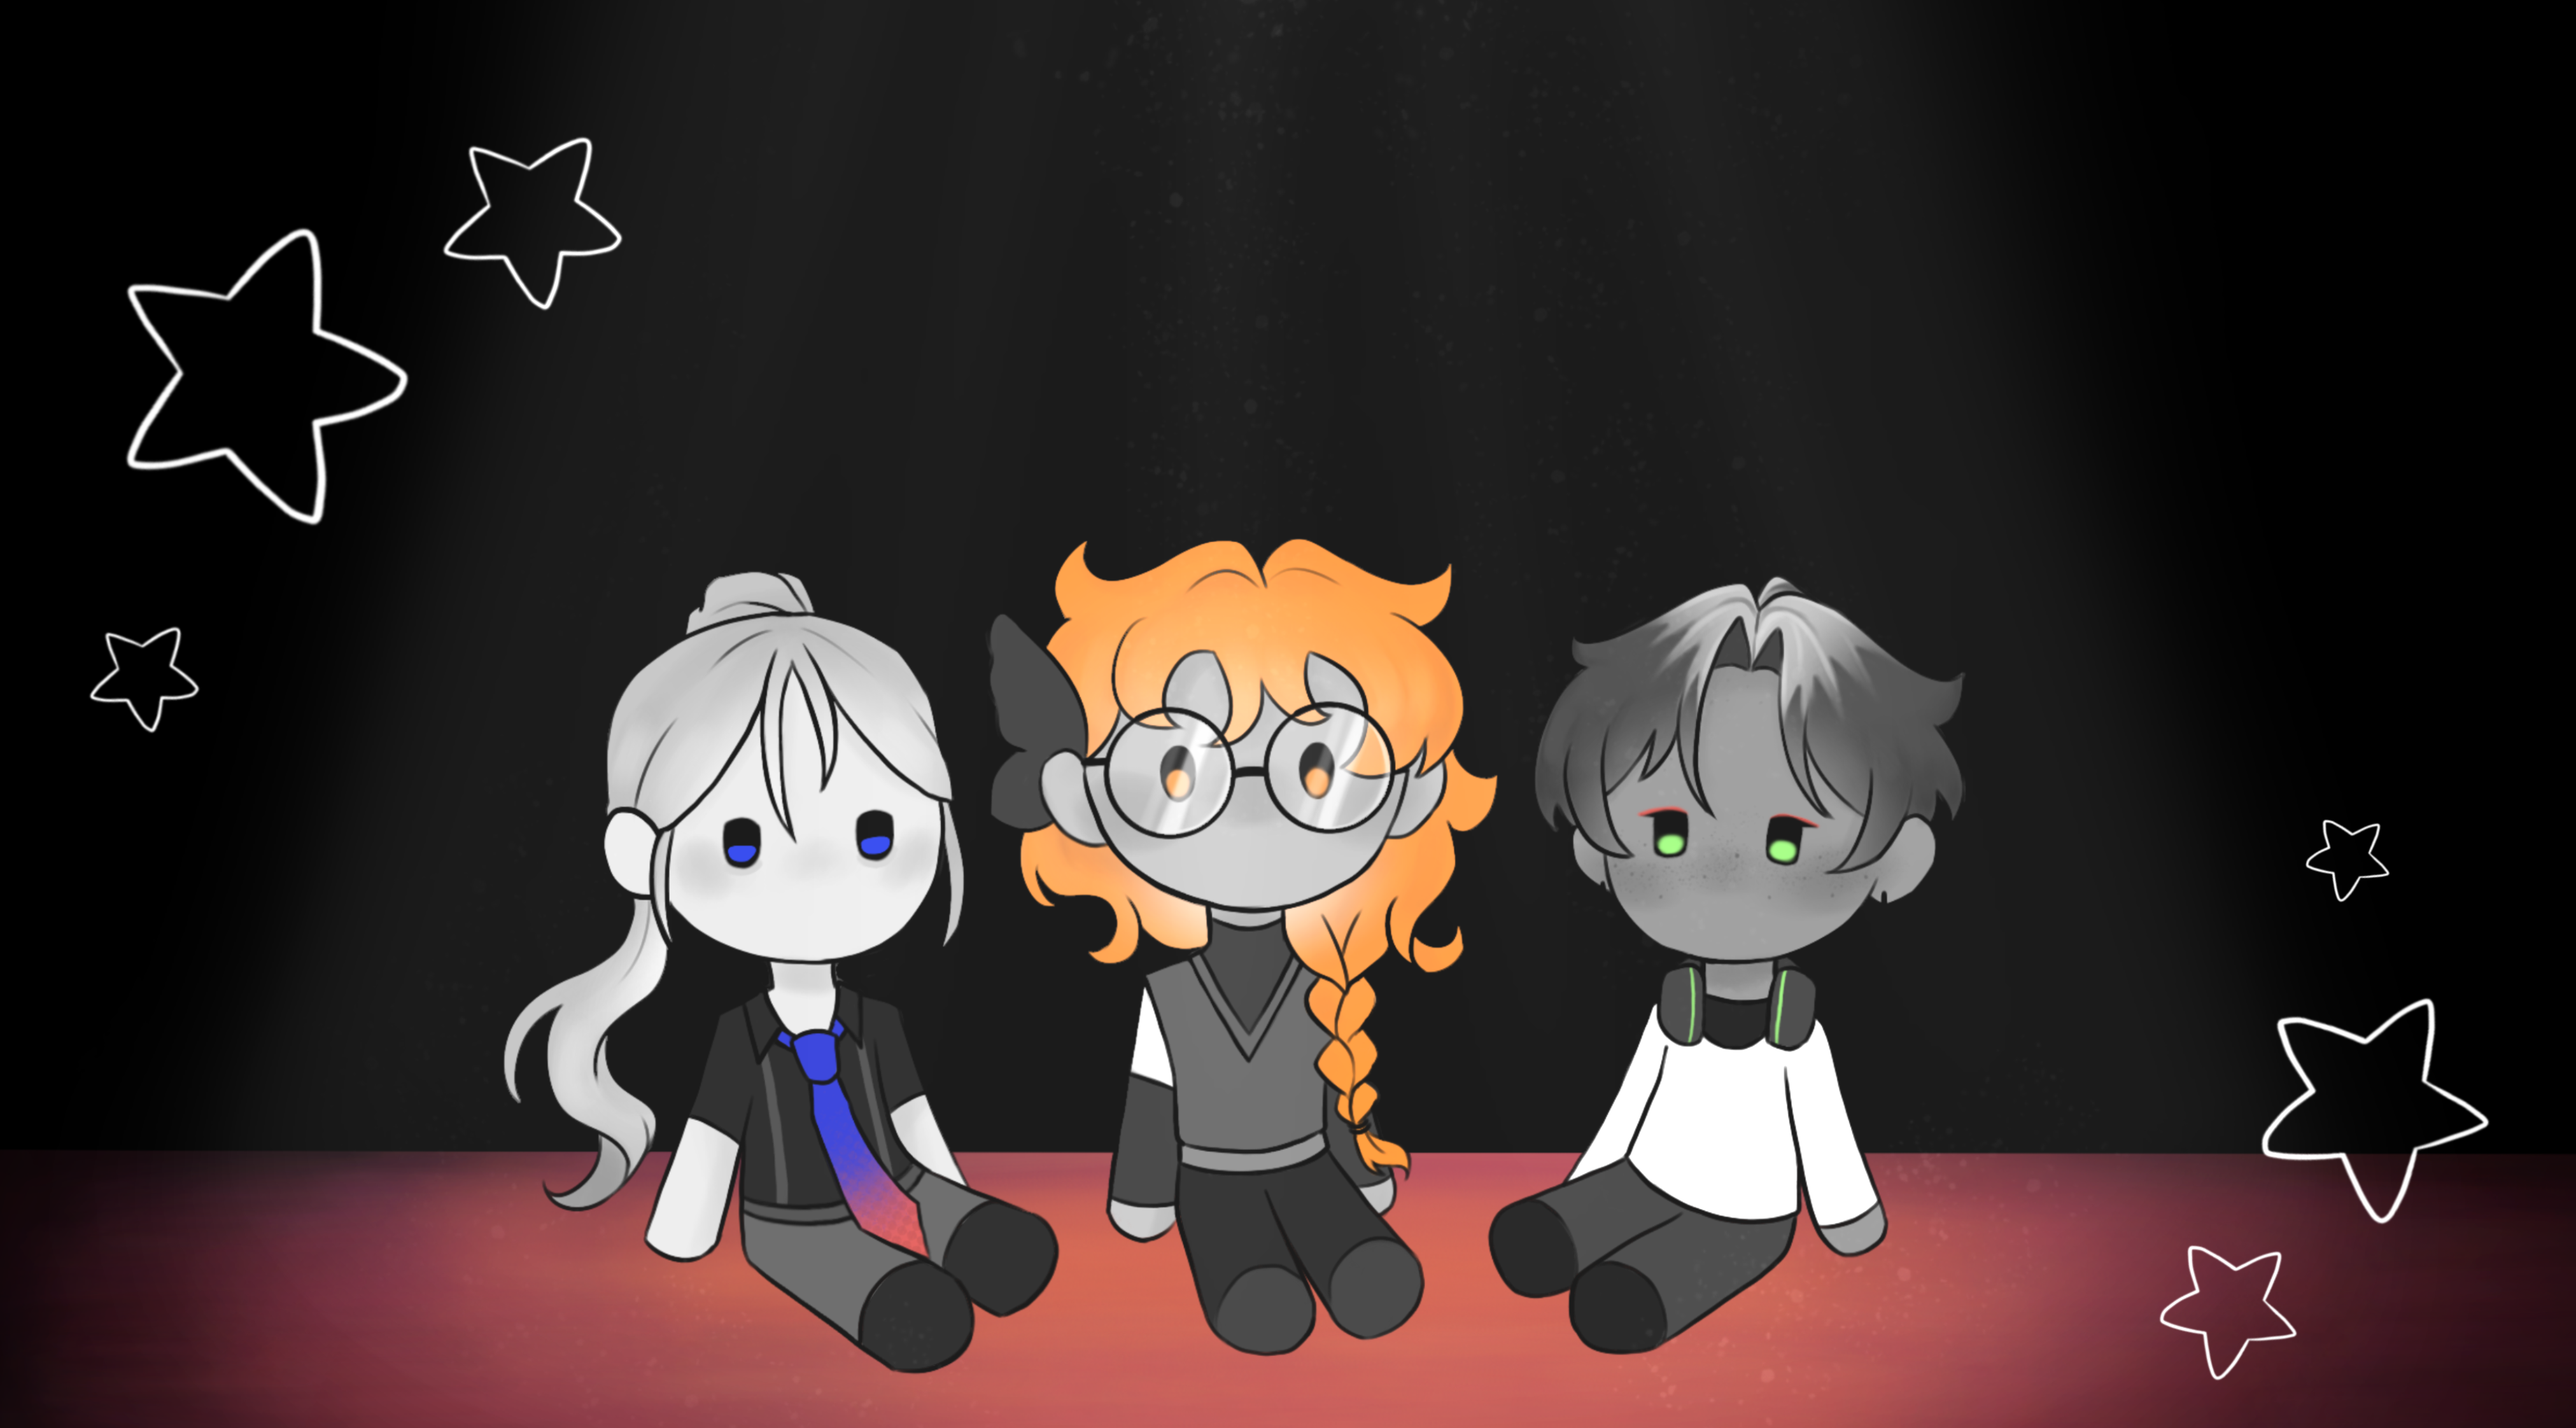
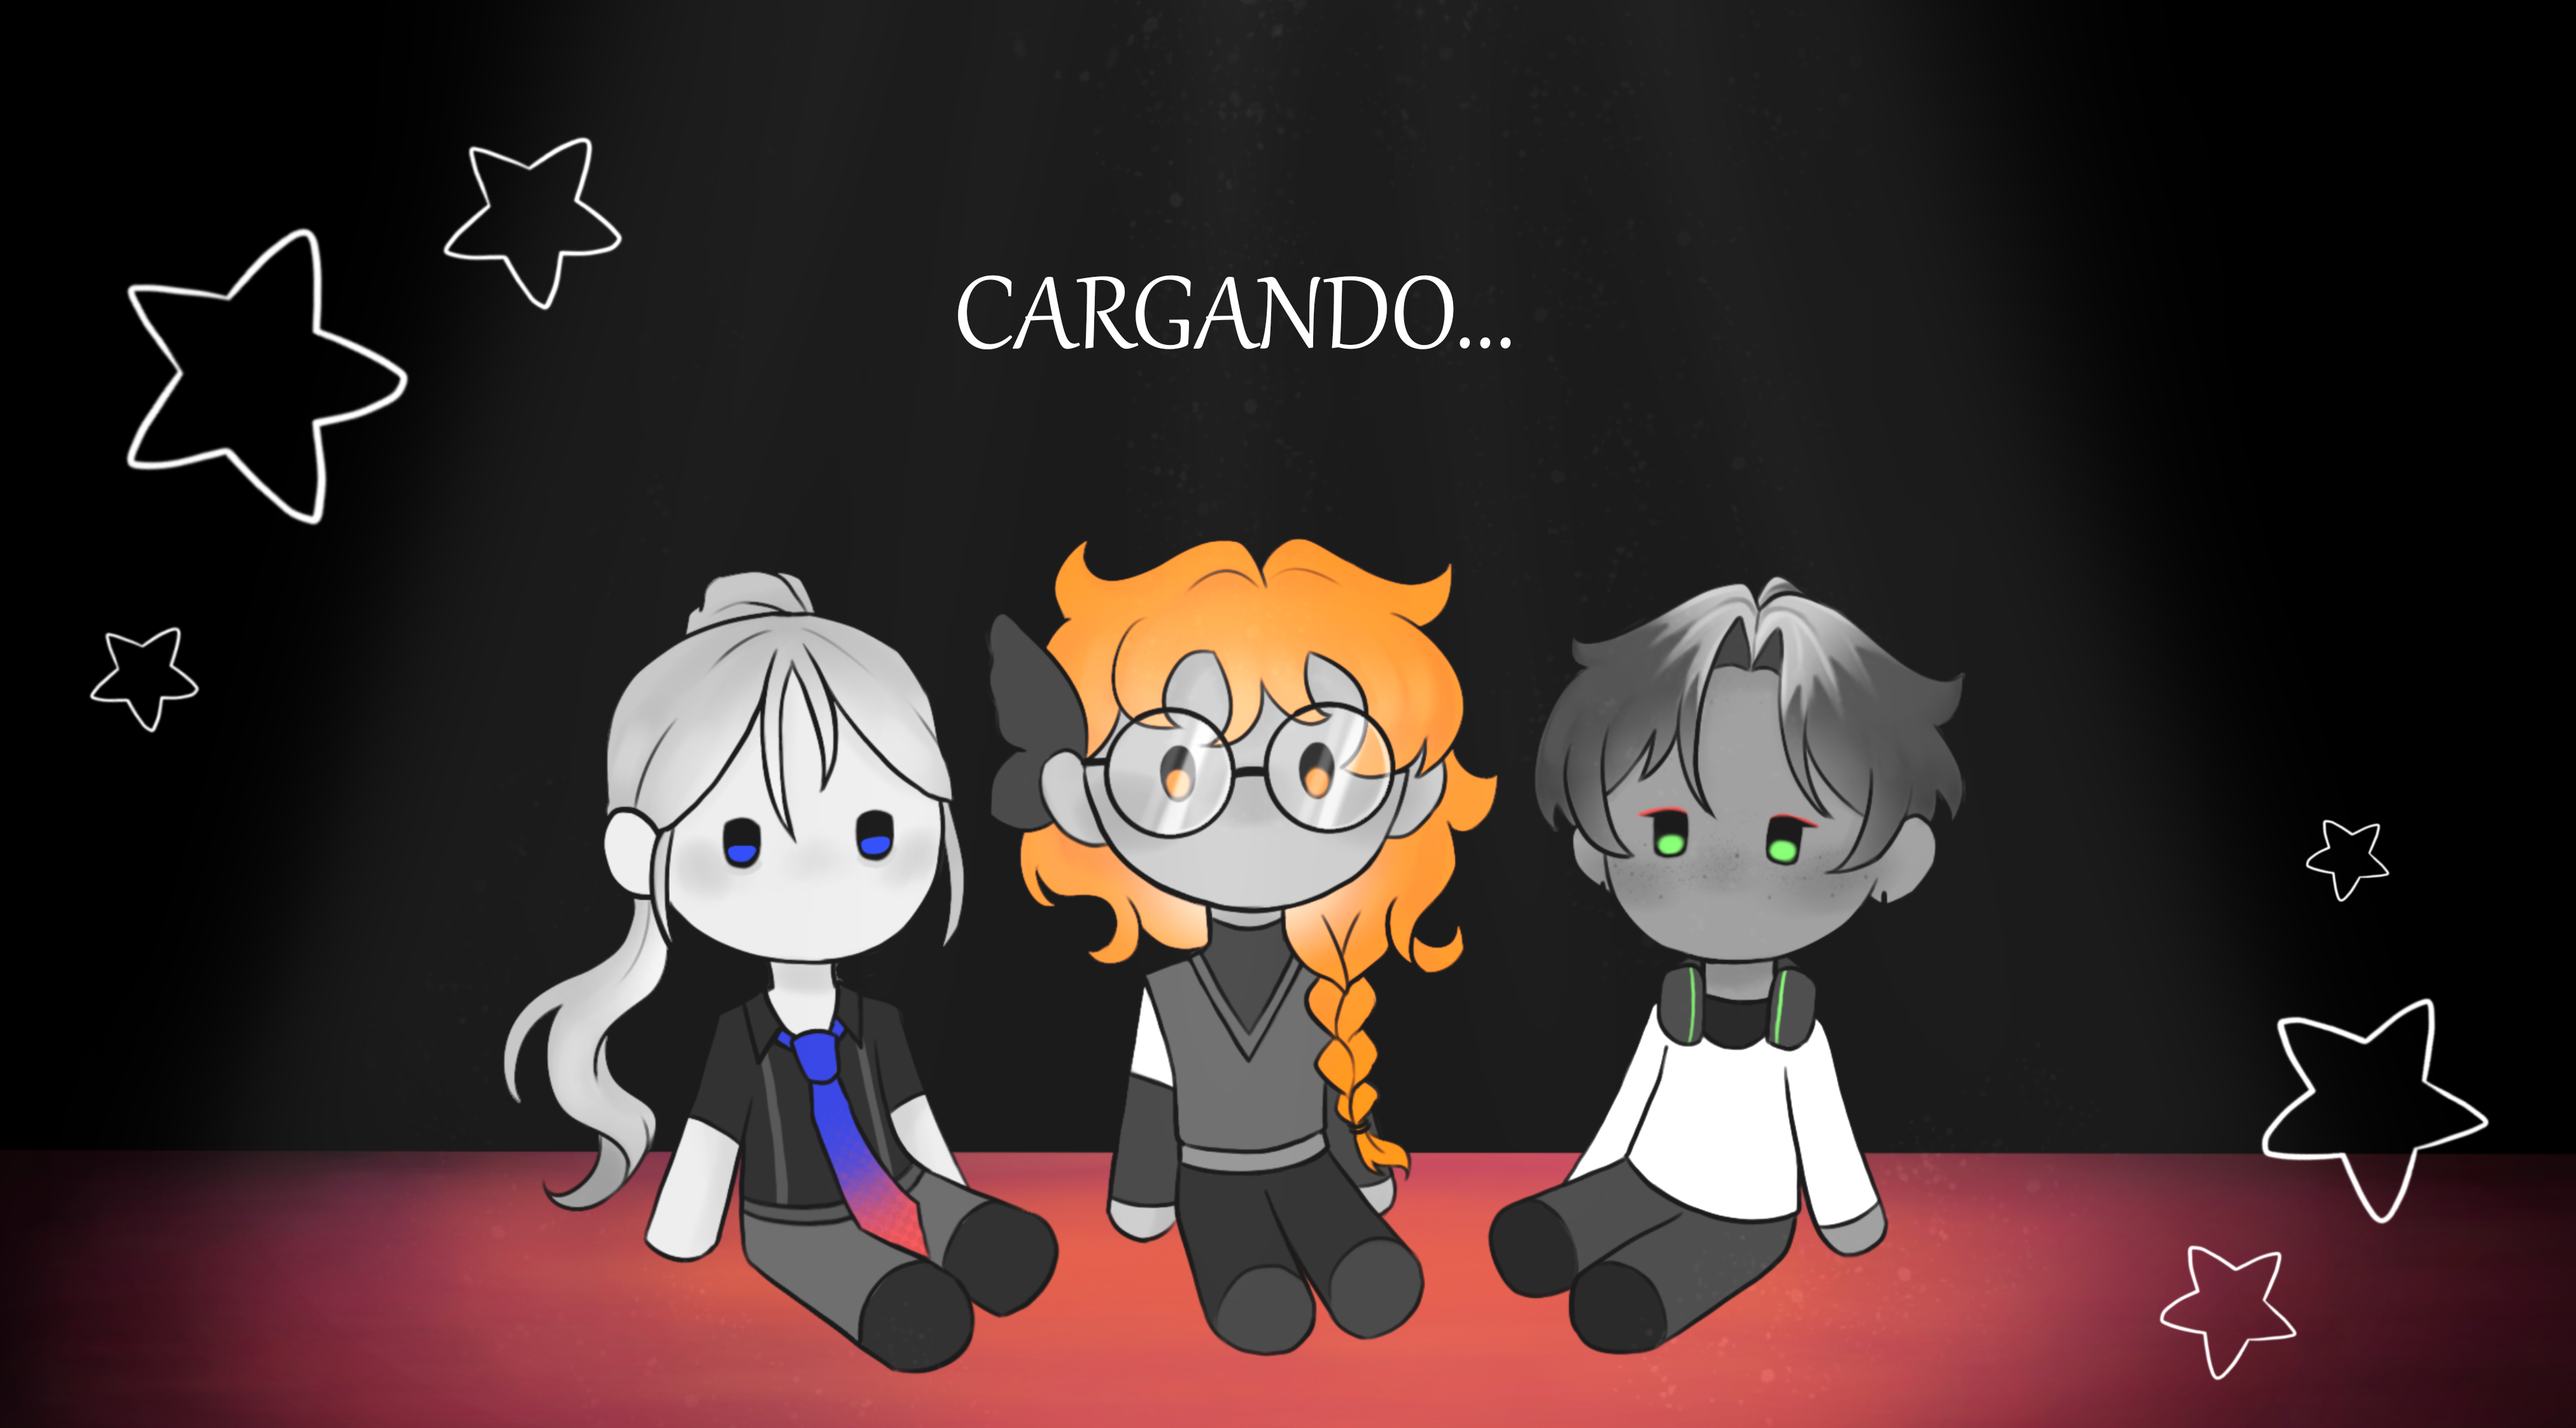
Pantallas de carga
+ mini cambios de la web

diff --git a/docs/css/estilo.css b/docs/css/estilo.css
@@ -232,8 +232,8 @@ h3{
  /**/
 
  .butFooter {
-  --color: #ffffff;
-  --color2: rgb(183, 9, 9);
+  --color: rgb(183, 9, 9);
+  --color2: rgb(255, 255, 255);
   padding: 0.8em 1.75em;
   background-color: transparent;
   border-radius: 6px;
